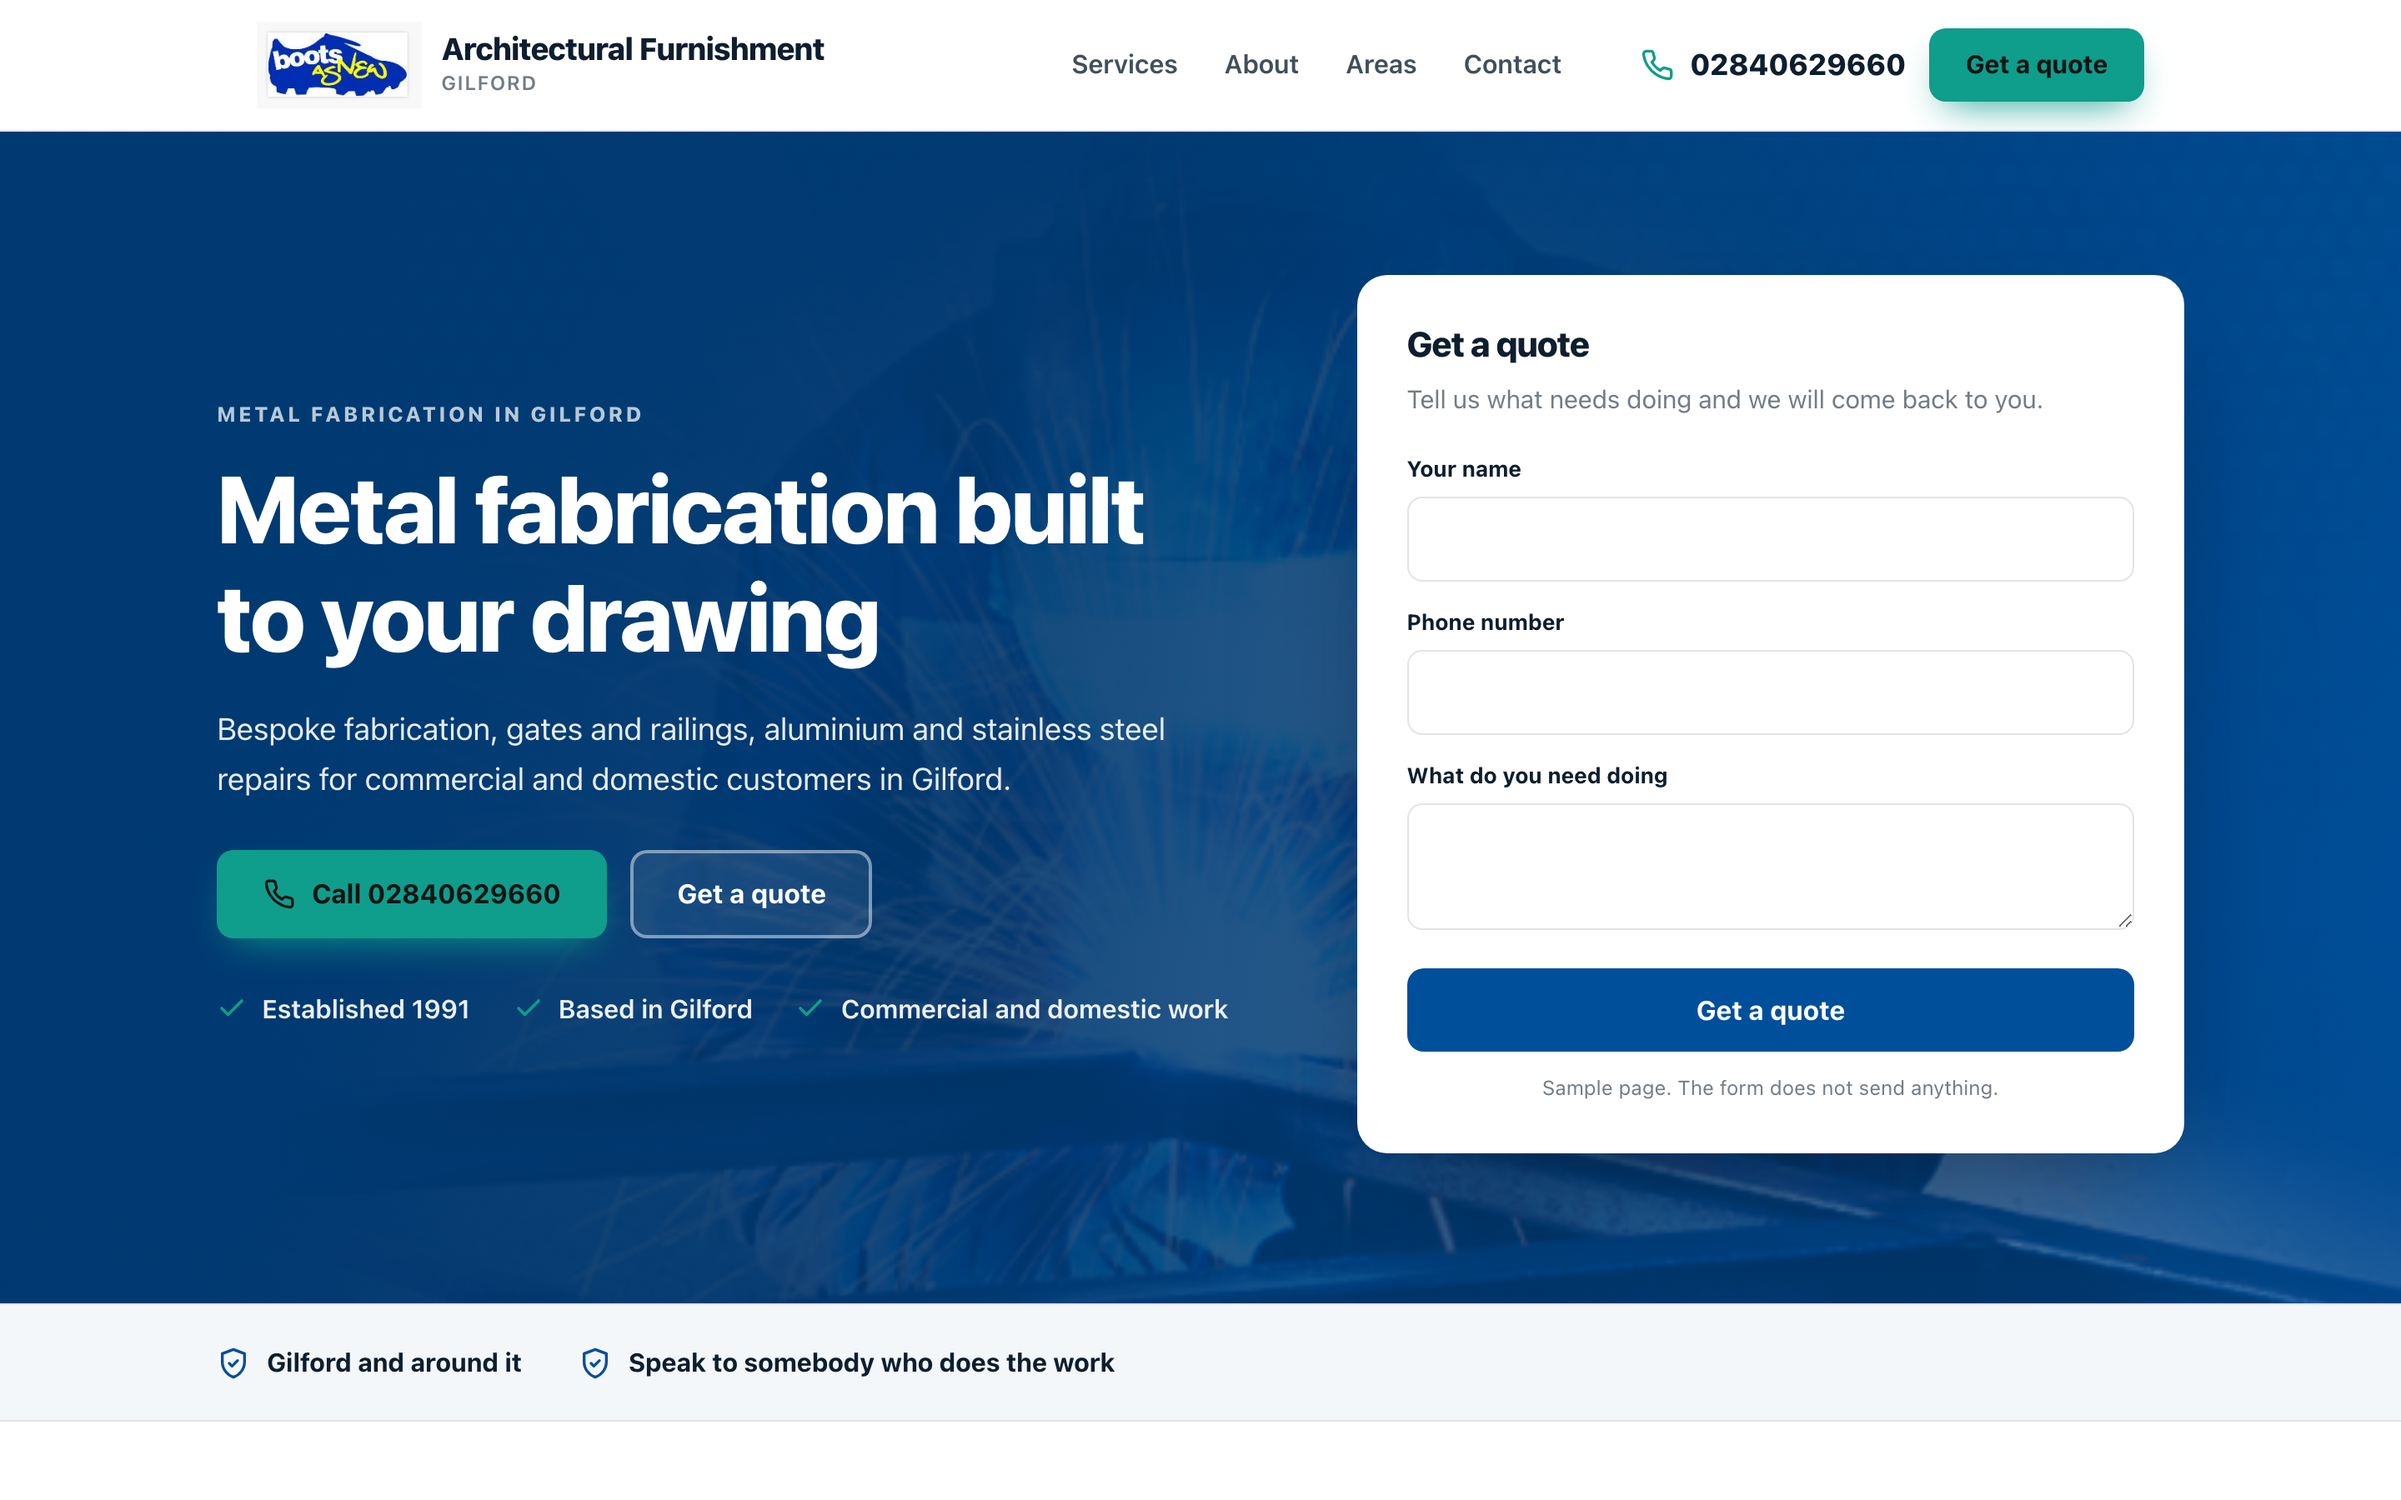
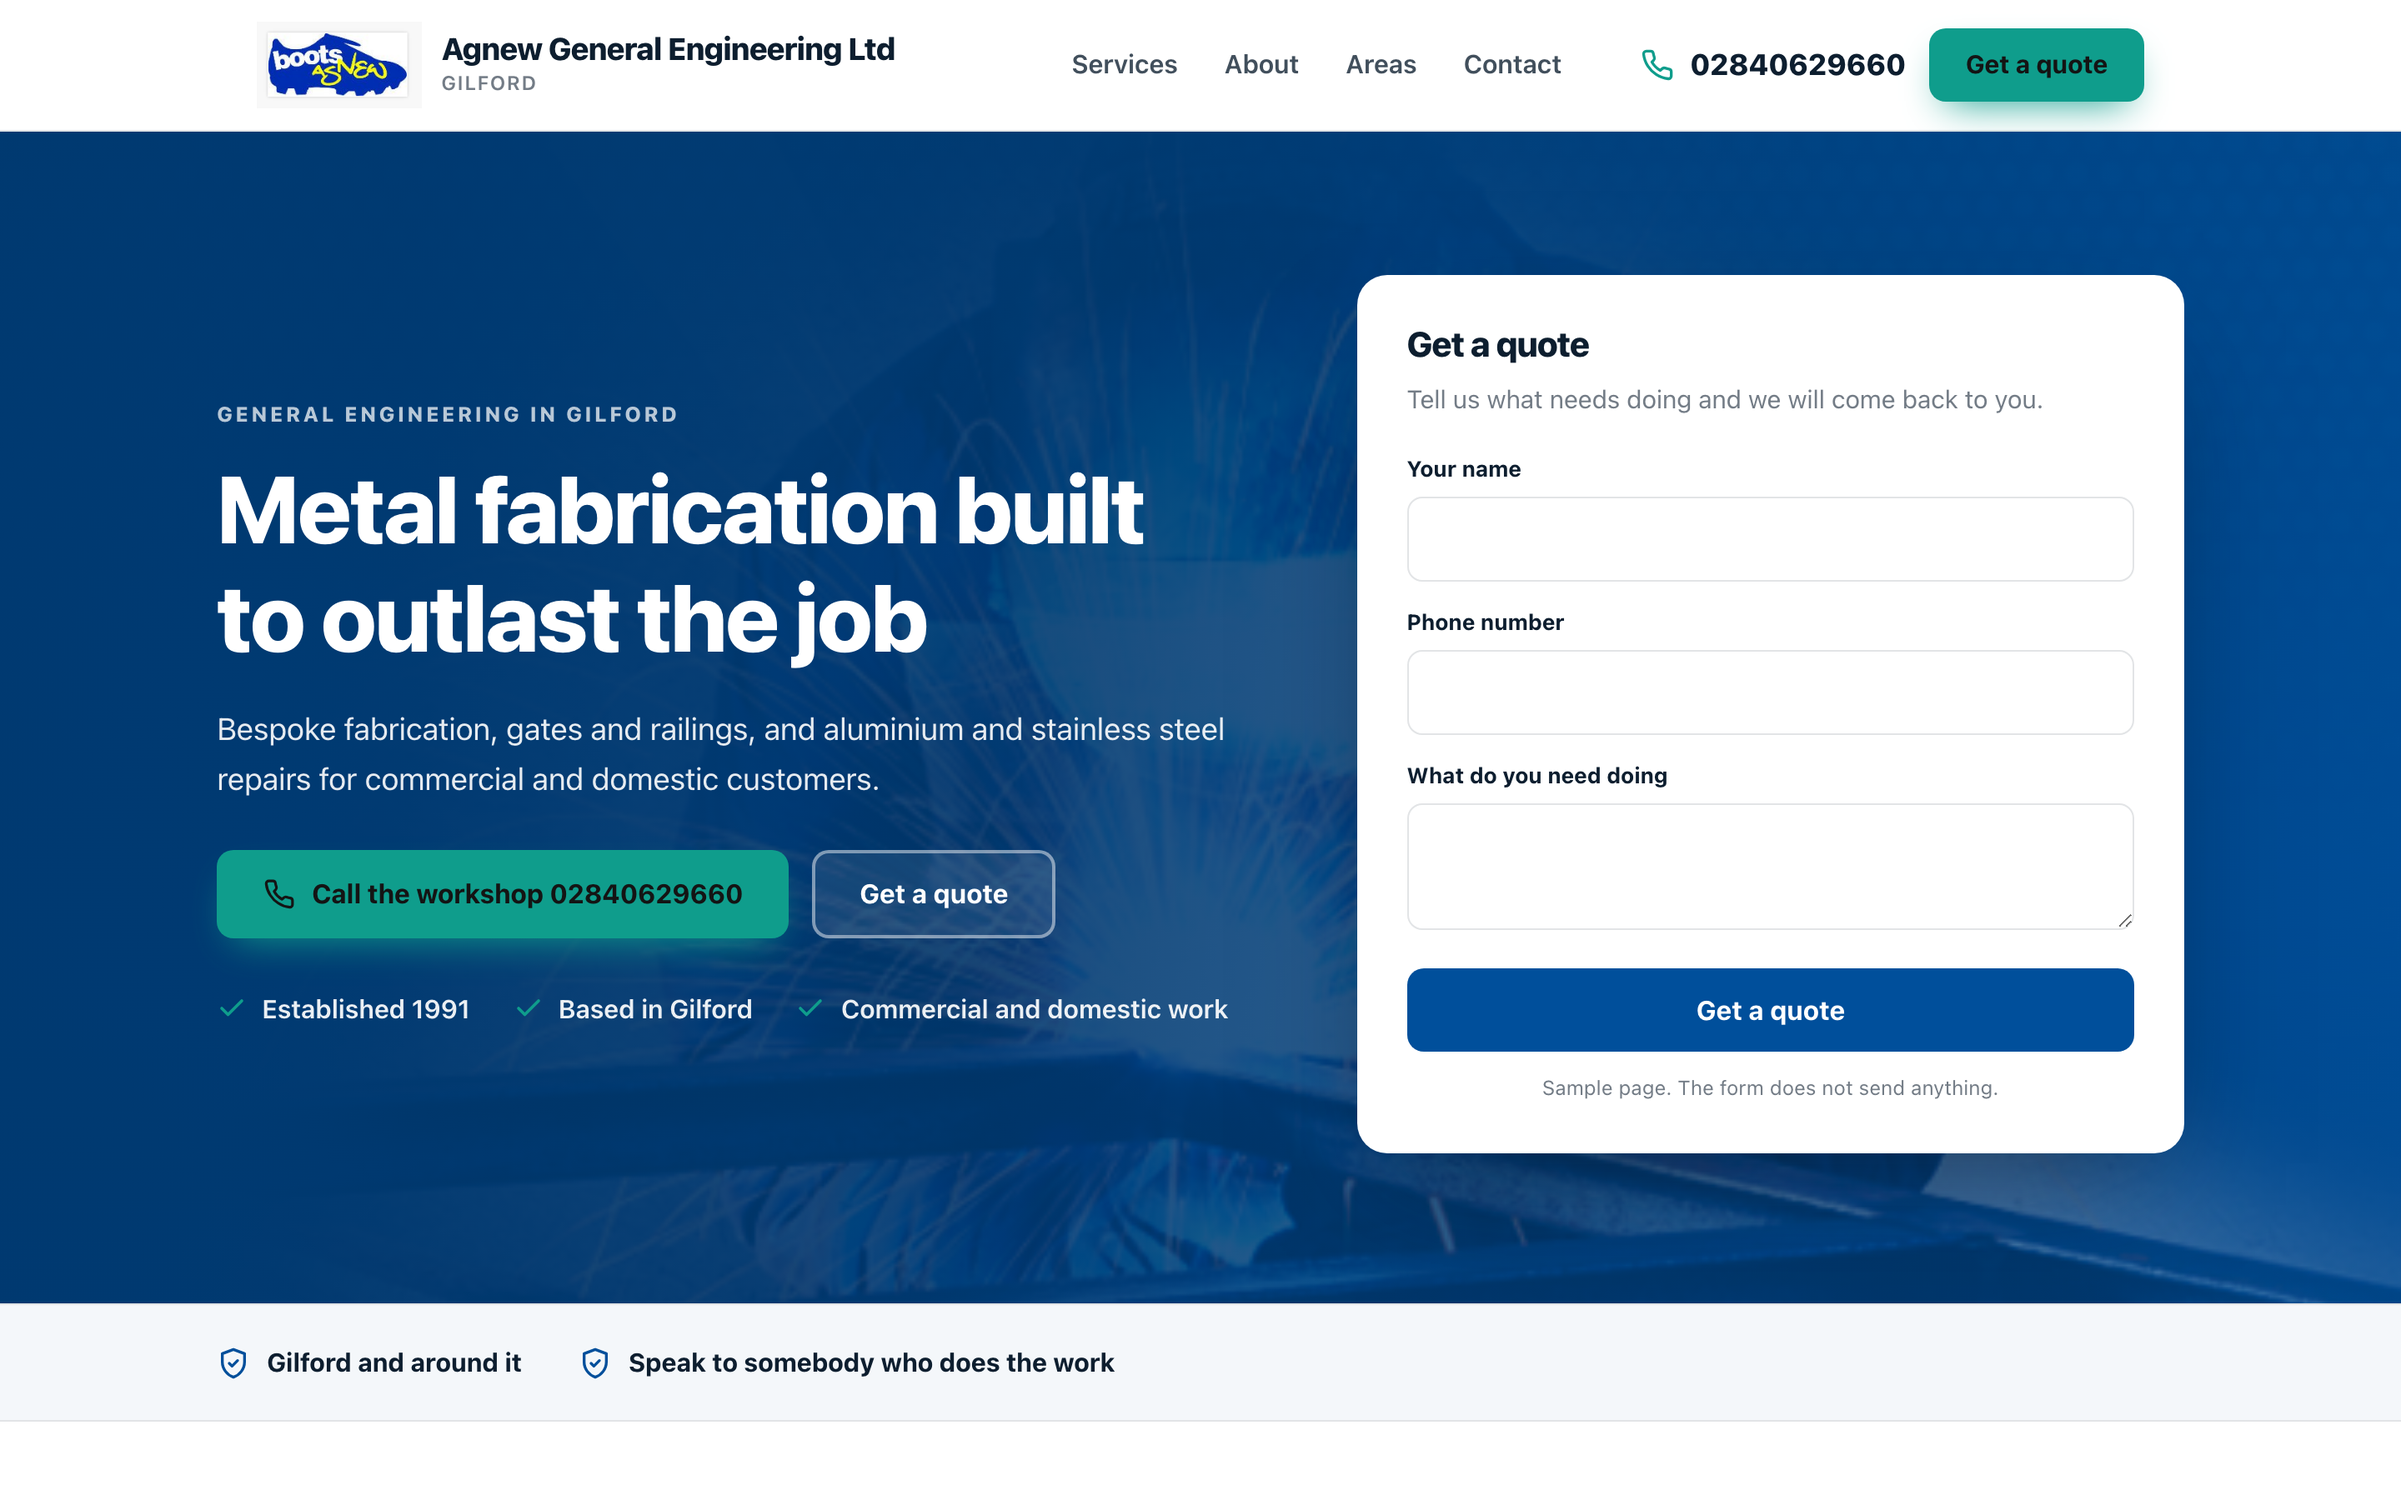
Sample homepage for Agnew General Engineering Ltd

diff --git a/docs/03dd43621b/index.html b/docs/03dd43621b/index.html
@@ -4,12 +4,12 @@
 <meta charset="utf-8">
 <meta name="viewport" content="width=device-width, initial-scale=1">
 <meta name="robots" content="noindex,nofollow">
-<title>Architectural Furnishment sample homepage</title>
-<meta name="description" content="Bespoke fabrication, gates and railings, aluminium and stainless steel repairs for commercial and domestic customers in Gilford.">
+<title>Agnew General Engineering Ltd sample homepage</title>
+<meta name="description" content="Bespoke fabrication, gates and railings, and aluminium and stainless steel repairs for commercial and domestic customers.">
 <link rel="canonical" href="https://markygff.github.io/aso-mockups/03dd43621b/">
 <meta property="og:type" content="website">
-<meta property="og:title" content="Architectural Furnishment sample homepage">
-<meta property="og:description" content="Bespoke fabrication, gates and railings, aluminium and stainless steel repairs for commercial and domestic customers in Gilford.">
+<meta property="og:title" content="Agnew General Engineering Ltd sample homepage">
+<meta property="og:description" content="Bespoke fabrication, gates and railings, and aluminium and stainless steel repairs for commercial and domestic customers.">
 <meta property="og:url" content="https://markygff.github.io/aso-mockups/03dd43621b/">
 <meta property="og:image" content="https://www.agnewengineering.com/media/1001/slider01.jpg"><style>
 :root{
@@ -119,8 +119,8 @@ p{margin:0}
 <header class="header">
   <div class="wrap header-in">
     <div class="brand">
-<img src="https://www.agnewengineering.com/CropUp/homepagecontentthumb/media/1195/Boots-Logo.png" alt="Architectural Furnishment logo">      <div>
-        <div class="brand-name">Architectural Furnishment</div>
+<img src="https://www.agnewengineering.com/CropUp/homepagecontentthumb/media/1195/Boots-Logo.png" alt="Agnew General Engineering Ltd logo">      <div>
+        <div class="brand-name">Agnew General Engineering Ltd</div>
 <div class="brand-sub">Gilford</div>      </div>
     </div>
     <nav class="nav">
@@ -134,14 +134,14 @@ p{margin:0}
 </header>
 
 <section class="hero">
-  <div class="hero-bg"><img src="https://www.agnewengineering.com/media/1001/slider01.jpg" alt="Architectural Furnishment at work" width="1600" height="900"></div>
+  <div class="hero-bg"><img src="https://www.agnewengineering.com/media/1001/slider01.jpg" alt="Agnew General Engineering Ltd at work" width="1600" height="900"></div>
   <div class="wrap hero-in">
     <div>
-      <p class="eyebrow">Metal fabrication in Gilford</p>
-      <h1>Metal fabrication built to your drawing</h1>
-      <p class="hero-sub">Bespoke fabrication, gates and railings, aluminium and stainless steel repairs for commercial and domestic customers in Gilford.</p>
+      <p class="eyebrow">General engineering in Gilford</p>
+      <h1>Metal fabrication built to outlast the job</h1>
+      <p class="hero-sub">Bespoke fabrication, gates and railings, and aluminium and stainless steel repairs for commercial and domestic customers.</p>
       <div class="hero-actions">
-        <span class="btn btn-accent"><svg viewBox="0 0 24 24" fill="none" stroke="currentColor" stroke-width="2" stroke-linecap="round" stroke-linejoin="round" aria-hidden="true"><path d="M22 16.9v3a2 2 0 0 1-2.2 2 19.8 19.8 0 0 1-8.6-3.1 19.5 19.5 0 0 1-6-6 19.8 19.8 0 0 1-3.1-8.7A2 2 0 0 1 4.1 2h3a2 2 0 0 1 2 1.7c.1 1 .4 1.9.7 2.8a2 2 0 0 1-.5 2.1L8.1 9.9a16 16 0 0 0 6 6l1.3-1.2a2 2 0 0 1 2.1-.5c.9.3 1.8.6 2.8.7a2 2 0 0 1 1.7 2z"/></svg>Call 02840629660</span>
+        <span class="btn btn-accent"><svg viewBox="0 0 24 24" fill="none" stroke="currentColor" stroke-width="2" stroke-linecap="round" stroke-linejoin="round" aria-hidden="true"><path d="M22 16.9v3a2 2 0 0 1-2.2 2 19.8 19.8 0 0 1-8.6-3.1 19.5 19.5 0 0 1-6-6 19.8 19.8 0 0 1-3.1-8.7A2 2 0 0 1 4.1 2h3a2 2 0 0 1 2 1.7c.1 1 .4 1.9.7 2.8a2 2 0 0 1-.5 2.1L8.1 9.9a16 16 0 0 0 6 6l1.3-1.2a2 2 0 0 1 2.1-.5c.9.3 1.8.6 2.8.7a2 2 0 0 1 1.7 2z"/></svg>Call the workshop 02840629660</span>
         <span class="btn btn-ghost">Get a quote</span>
       </div>
       <ul class="hero-bullets">
@@ -170,29 +170,29 @@ p{margin:0}
   <div class="wrap">
     <div class="services-head">
       <p class="eyebrow">What we do</p>
-      <h2>Architectural Furnishment, Gilford</h2>
-      <p>Bespoke fabrication, gates and railings, aluminium and stainless steel repairs for commercial and domestic customers in Gilford.</p>
+      <h2>Agnew General Engineering Ltd, Gilford</h2>
+      <p>Bespoke fabrication, gates and railings, and aluminium and stainless steel repairs for commercial and domestic customers.</p>
     </div>
     <div class="grid">
       <article class="card">
         <div class="icon"><svg viewBox="0 0 24 24" fill="none" stroke="currentColor" stroke-width="2" stroke-linecap="round" stroke-linejoin="round" aria-hidden="true"><path d="M14.7 6.3a4 4 0 0 0 5.3 5.3l-8 8a3 3 0 0 1-4.2-4.2z"/><path d="m14.7 6.3 3-3"/></svg></div>
         <h3>Bespoke Fabrication</h3>
-        <p>Metalwork made to your own specification, not off a shelf.</p>
+        <p>Metalwork made to your exact job, not off a shelf.</p>
       </article>
       <article class="card">
         <div class="icon"><svg viewBox="0 0 24 24" fill="none" stroke="currentColor" stroke-width="2" stroke-linecap="round" stroke-linejoin="round" aria-hidden="true"><path d="M13 2 4 14h7l-1 8 9-12h-7z"/></svg></div>
         <h3>Gates &amp; Railings</h3>
-        <p>Gates and railings fabricated and fitted for homes and businesses.</p>
+        <p>Gates and railings fabricated and fitted to last.</p>
       </article>
       <article class="card">
         <div class="icon"><svg viewBox="0 0 24 24" fill="none" stroke="currentColor" stroke-width="2" stroke-linecap="round" stroke-linejoin="round" aria-hidden="true"><path d="M3 10.5 12 3l9 7.5"/><path d="M5 9.5V21h14V9.5"/><path d="M10 21v-6h4v6"/></svg></div>
         <h3>Aluminium &amp; Stainless Steel Repairs</h3>
-        <p>Repairs to aluminium and stainless steel, done in our own workshop.</p>
+        <p>Repairs to aluminium and stainless steel, done properly.</p>
       </article>
       <article class="card">
         <div class="icon"><svg viewBox="0 0 24 24" fill="none" stroke="currentColor" stroke-width="2" stroke-linecap="round" stroke-linejoin="round" aria-hidden="true"><path d="M4 20 15 9"/><path d="m14 4 6 6-3 3-6-6z"/><path d="m3 15 6 6"/></svg></div>
         <h3>General Fabrication</h3>
-        <p>General metal fabrication work for commercial and domestic jobs.</p>
+        <p>General fabrication work for commercial and domestic jobs.</p>
       </article>
     </div>
   </div>
@@ -200,7 +200,7 @@ p{margin:0}
 
 <footer class="footer">
   <div class="wrap footer-in">
-    <span>Sample built for Architectural Furnishment from your public website. Not live. Tell us and we delete it.</span>
+    <span>Sample built for Agnew General Engineering Ltd from your public website. Not live. Tell us and we delete it.</span>
     <span>agnewengineering.com</span>
   </div>
 </footer>
